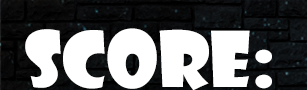
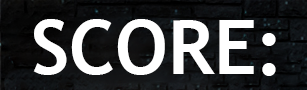
fix font

diff --git a/Game/BrickGamBot.cpp b/Game/BrickGamBot.cpp
@@ -171,7 +171,8 @@ void BrickGameBot::render() {
 	lifepic.y = 0;
 	scorepic.w = 100;
 	scorepic.h = 40;
-	scorepic.x = scorepic.y = 0;
+	scorepic.x = 0;
+	scorepic.y = 5;
 	SDL_RenderCopy(BrickGameBot::rendered, background_brickBOT, NULL, NULL);
 	SDL_RenderCopy(BrickGameBot::rendered, lifeBOT, NULL, &lifepic);
 	SDL_RenderCopy(BrickGameBot::rendered, scoretextBOT, NULL, &scorepic);

diff --git a/Game/BrickGame.cpp b/Game/BrickGame.cpp
@@ -243,7 +243,8 @@ void BrickGame::render() {
 	lifepic.y = 0;
 	scorepic.w = 100;
     scorepic.h = 40;
-	scorepic.x = scorepic.y = 0;
+	scorepic.x = 0;
+	scorepic.y = 5;
 	SDL_RenderCopy(BrickGame::rendered, background_brick, NULL, NULL);
 	SDL_RenderCopy(BrickGame::rendered, life, NULL, &lifepic);
 	SDL_RenderCopy(BrickGame::rendered, scoretext, NULL, &scorepic);

diff --git a/Game/BallObject.cpp b/Game/BallObject.cpp
@@ -227,8 +227,8 @@ bool BallObject::isTouch(PaddleObject* paddle) {
 	if (edgeRes == 2) {
 		strikeAngle(paddle);
 		if (speed <= 30) {	//Tăng theo gia tốc, tối đa 30 lần
-			velocityX *= 1 + accelerate;
-			velocityY *= 1 + accelerate;
+			velocityX += velocityX * 0.1;
+			velocityY += velocityY * 0.1;
 			speed++;
 		}
 		return true;

diff --git a/Game/BotPaddle.cpp b/Game/BotPaddle.cpp
@@ -29,7 +29,6 @@ void BotPaddle::updateBrickBot(BallObject* ball, vector<vector<Brick*>> table)
 	int target = rand() % 152 + 5;
 	float yball = ball->getY();
 	float xPaddle = getPaddleXpos();
-	
 	float closestY = 0;
 	float closestX = -1;
 	for (size_t i = 0; i < 5; i++) {
